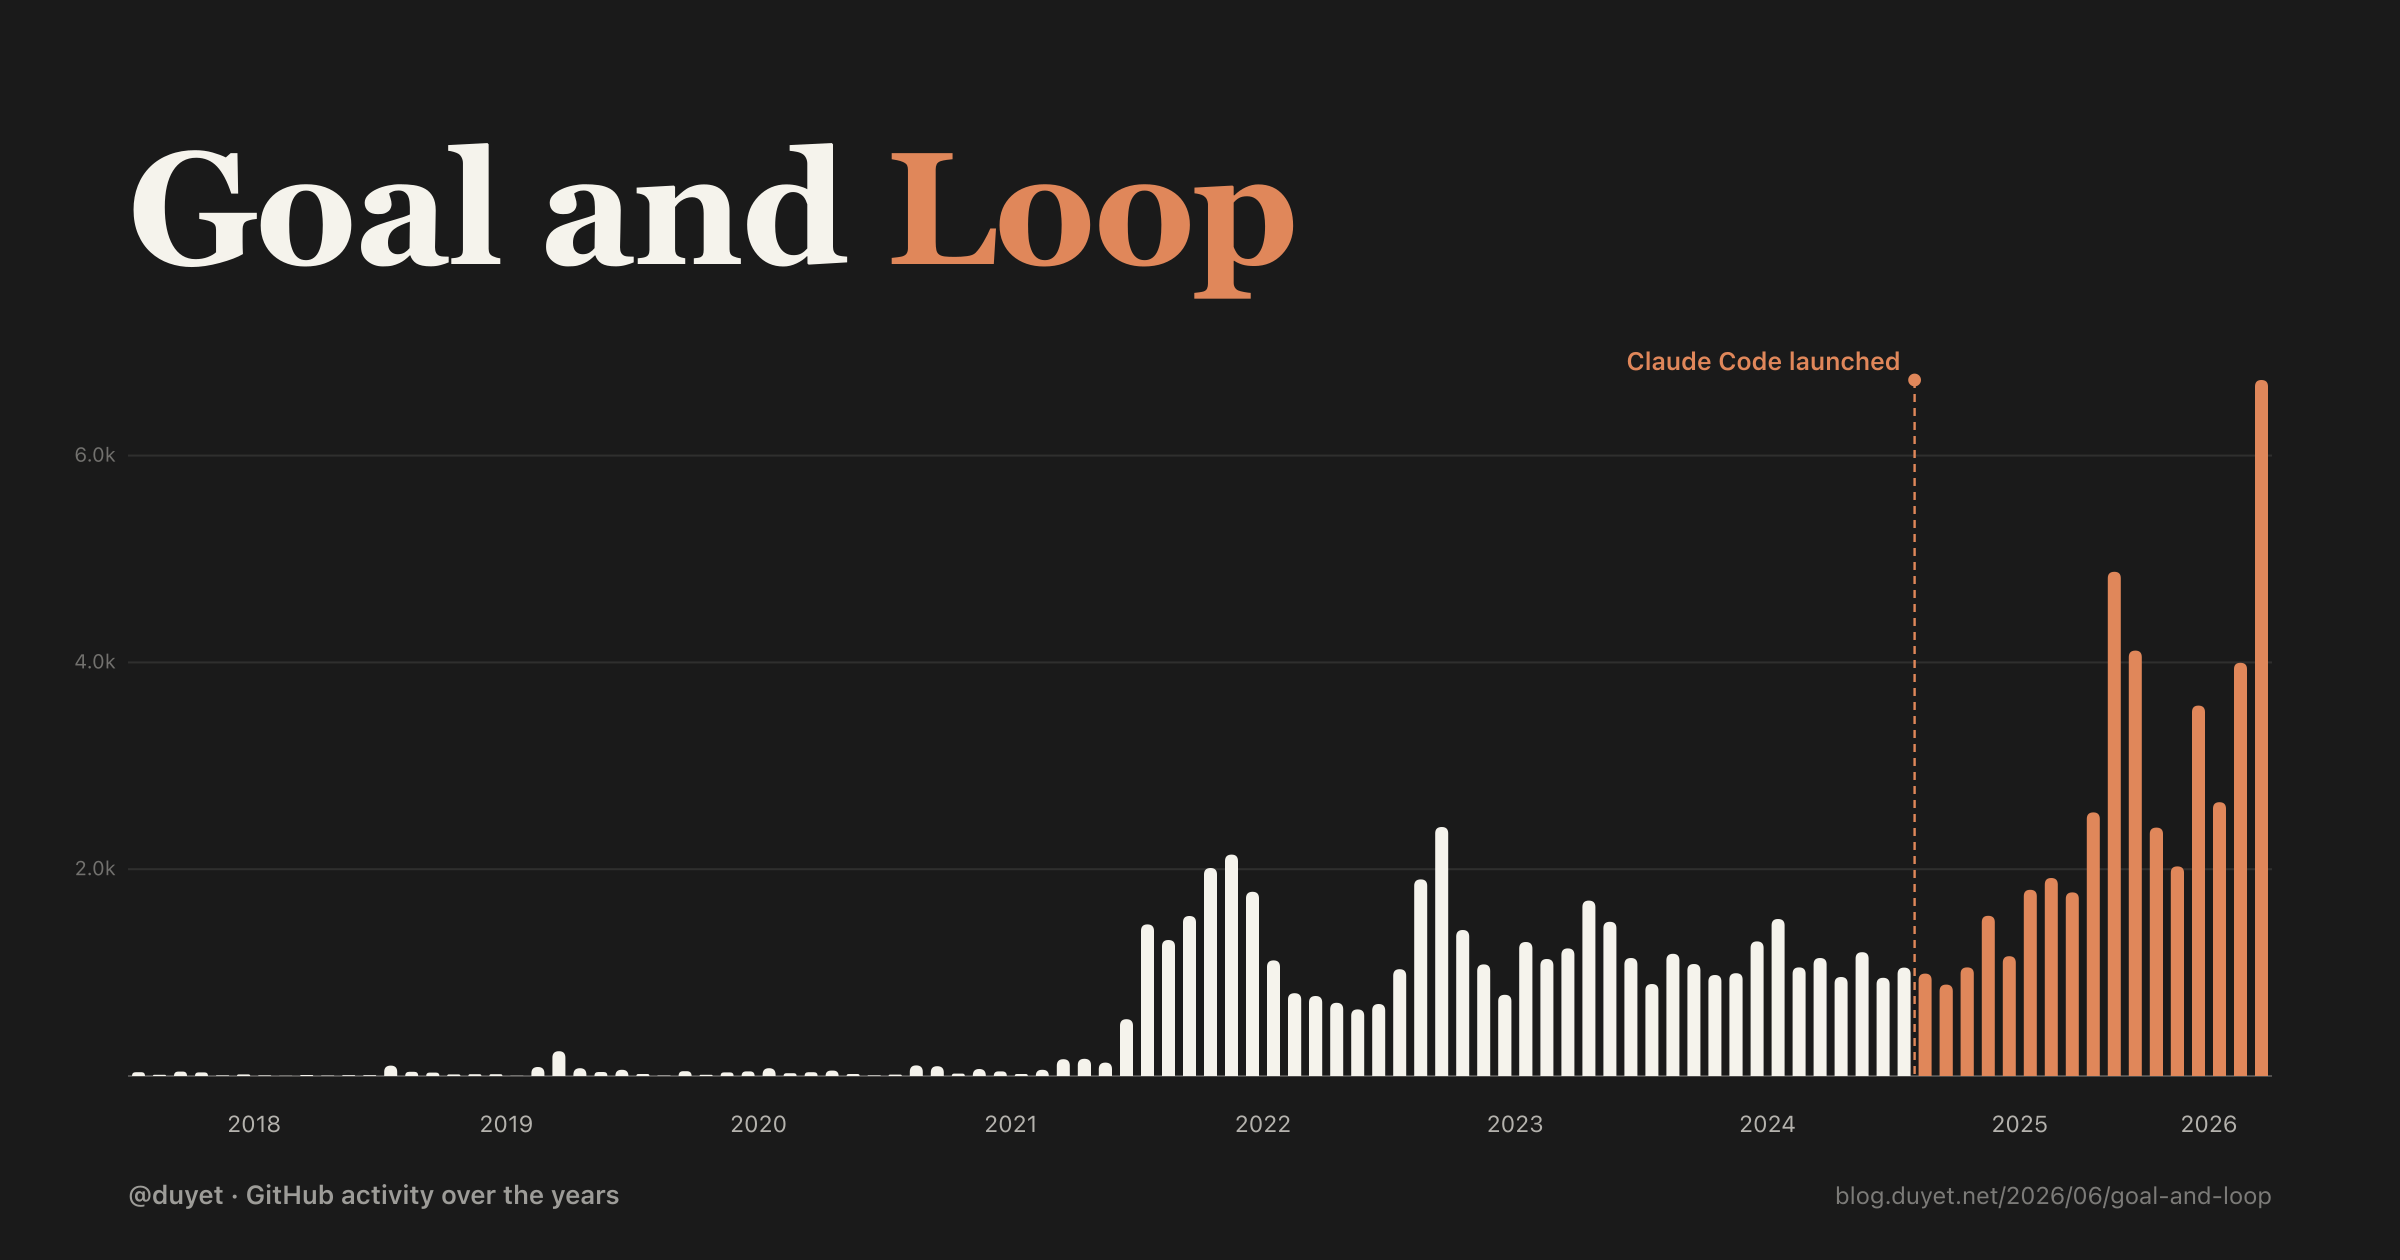
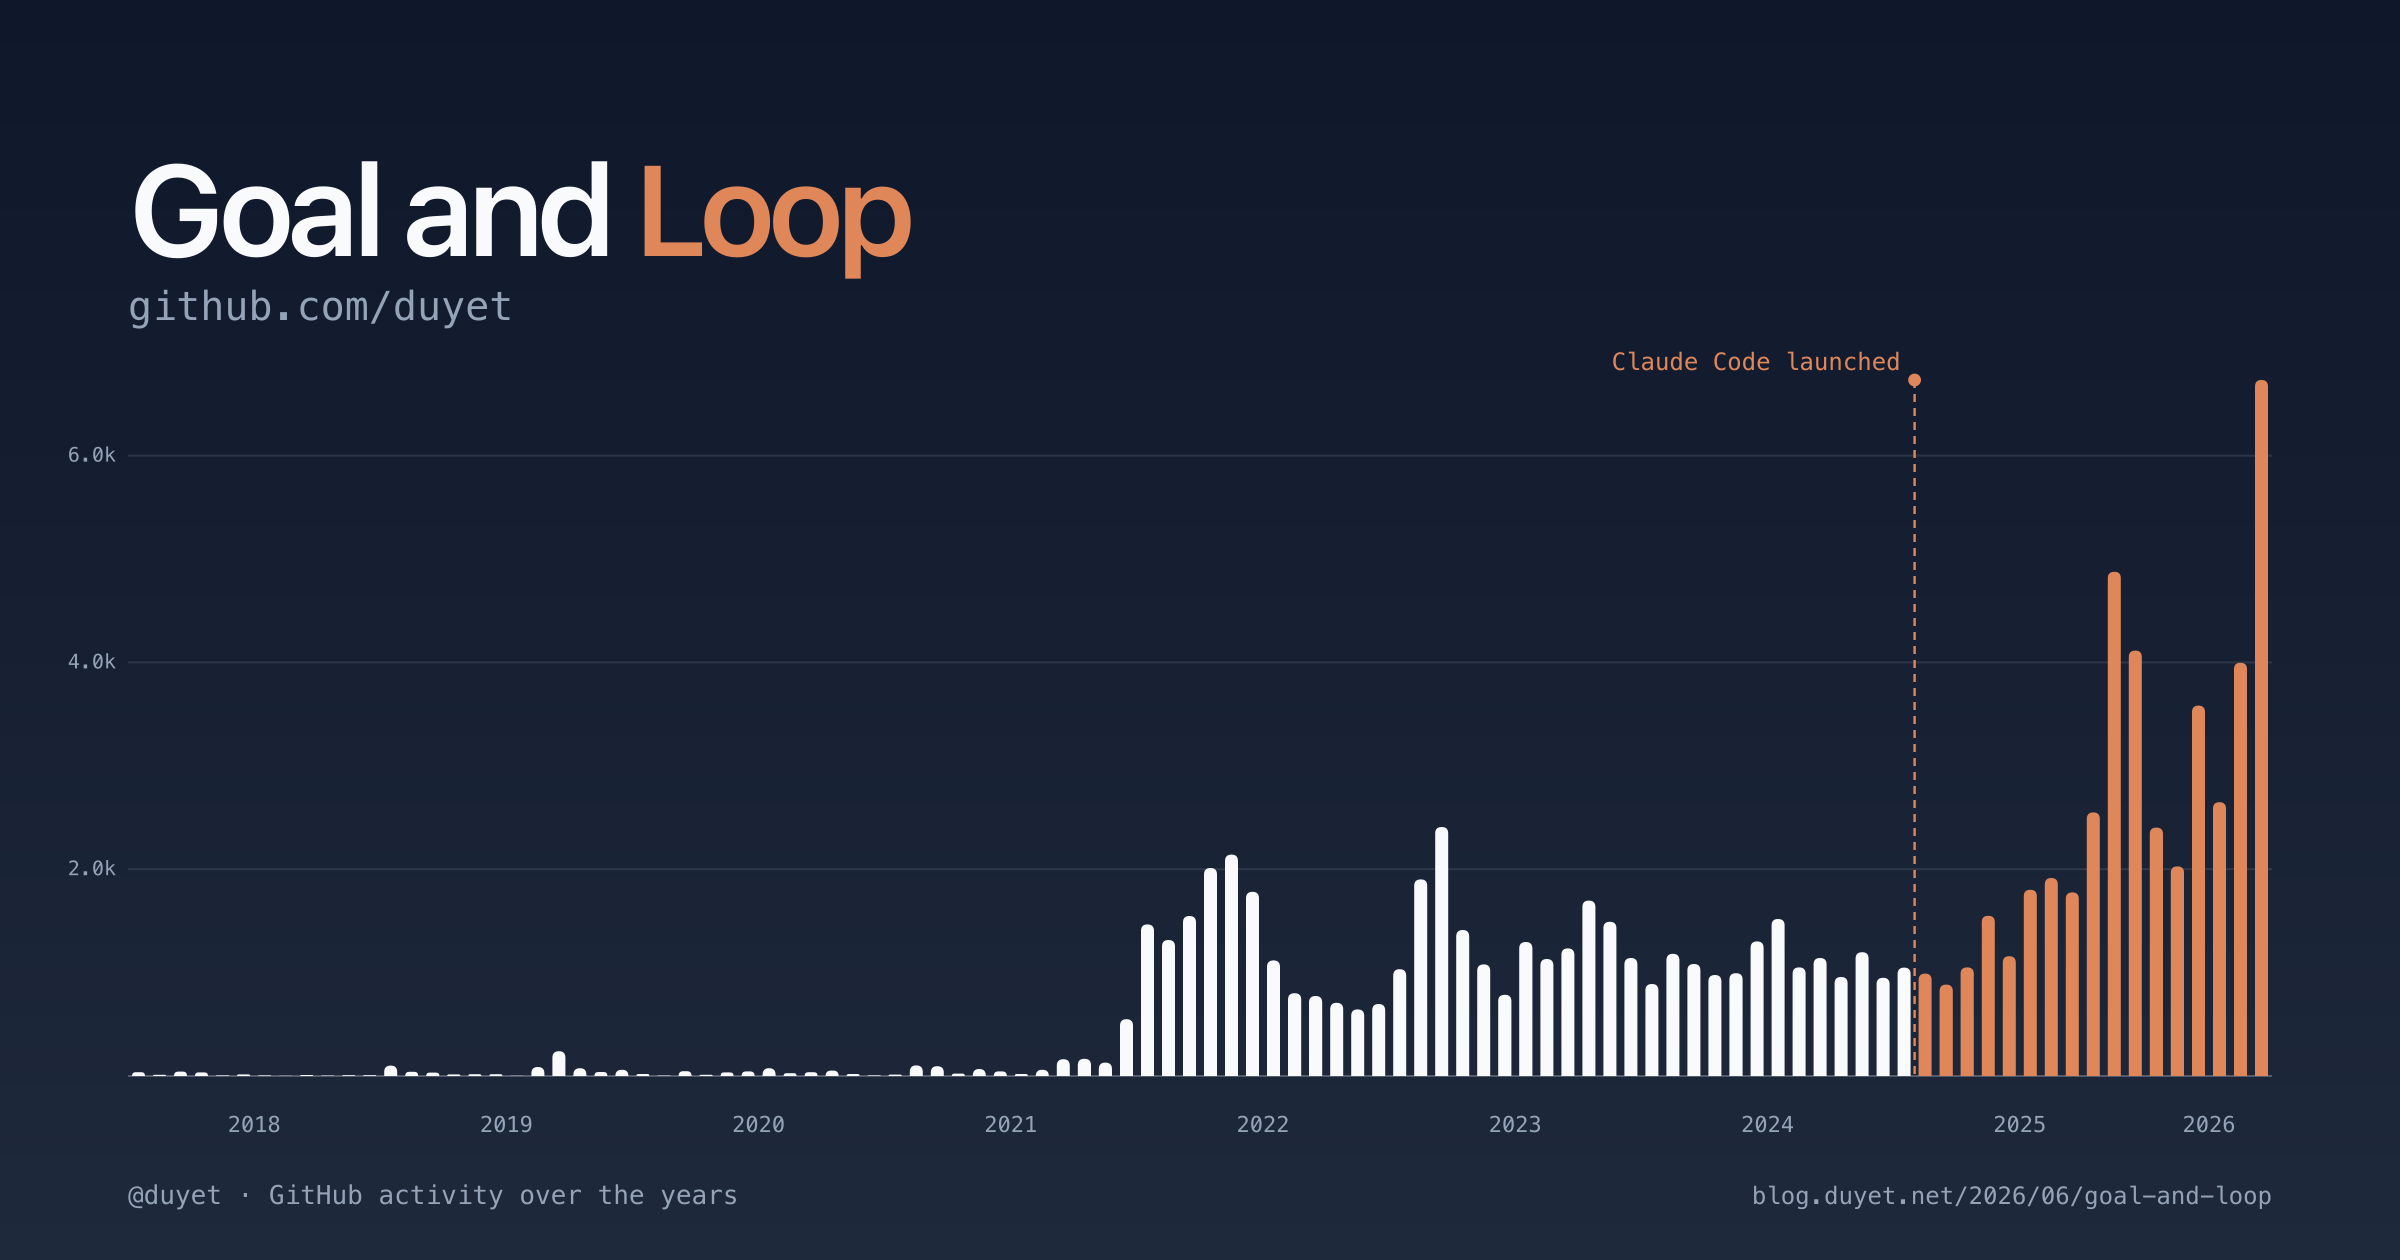
feat(blog): match goal-and-loop card to agent-sandbox hero style
Adopt the agent-sandbox-on-kubernetes hero look: vertical gradient background
(white→lavender light, navy dark), Inter title (weight 600, -1.5 tracking),
and monospace meta (subtitle, axis labels, footer). Replaces the Georgia serif
title and flat background with the shared hero palette (#1a1a1a/#6b7280).

Claude-Session: https://claude.ai/code/session_01WVj3MgcsjbbeHVnKxY94Cj

diff --git a/apps/blog/scripts/github-stats.ts b/apps/blog/scripts/github-stats.ts
@@ -59,26 +59,30 @@ type Cache = {
 
 type Theme = {
   name: string;
-  bg: string;
+  bgStart: string;
+  bgEnd: string;
   ink: string;
+  sub: string;
   accent: string;
-  type: Record<TypeKey, string>;
 };
 
+// Palette + gradient mirror the agent-sandbox-on-kubernetes hero card.
 const THEMES: Theme[] = [
   {
     name: "light",
-    bg: "#f8f8f2",
+    bgStart: "#ffffff",
+    bgEnd: "#eceffa",
     ink: "#1a1a1a",
+    sub: "#6b7280",
     accent: "#d97441",
-    type: { commits: "#1a1a1a", prs: "#d97441", reviews: "#5b7c99", issues: "#b8893a", private: "#cfc9bb" },
   },
   {
     name: "dark",
-    bg: "#1a1a1a",
-    ink: "#f5f3ec",
+    bgStart: "#0f172a",
+    bgEnd: "#1e293b",
+    ink: "#f8fafc",
+    sub: "#94a3b8",
     accent: "#e0875a",
-    type: { commits: "#d8d5cc", prs: "#e0875a", reviews: "#6f97b8", issues: "#c79a4f", private: "#57544c" },
   },
 ];
 
@@ -224,7 +228,6 @@ async function update(): Promise<Cache> {
 // ---- chart generators -----------------------------------------------------
 const esc = (s: string) => s.replace(/&/g, "&amp;").replace(/</g, "&lt;").replace(/>/g, "&gt;");
 const kfmt = (v: number) => (v >= 1000 ? `${(v / 1000).toFixed(1)}k` : String(v));
-const op = (hex: string, o: number) => `fill="${hex}" fill-opacity="${o}"`;
 
 function niceStep(maxPerTick: number): number {
   return [500, 1000, 2000, 2500, 5000, 10000, 20000].find((c) => c >= maxPerTick) ?? 20000;
@@ -237,7 +240,12 @@ function barPath(bx: number, by: number, w: number, h: number, r: number): strin
   return `M${bx.toFixed(1)},${base.toFixed(1)} L${bx.toFixed(1)},${(by + rad).toFixed(1)} Q${bx.toFixed(1)},${by.toFixed(1)} ${(bx + rad).toFixed(1)},${by.toFixed(1)} L${(bx + w - rad).toFixed(1)},${by.toFixed(1)} Q${(bx + w).toFixed(1)},${by.toFixed(1)} ${(bx + w).toFixed(1)},${(by + rad).toFixed(1)} L${(bx + w).toFixed(1)},${base.toFixed(1)} Z`;
 }
 
-// 1200x630 share card: big serif "Goal and Loop" title + rounded monthly bars.
+// Fonts mirror the agent-sandbox-on-kubernetes hero card.
+const SANS = "Inter,system-ui,-apple-system,sans-serif";
+const MONO = "ui-monospace,SFMono-Regular,Menlo,monospace";
+
+// 1200x630 share card styled to match the agent-sandbox hero: gradient
+// background, Inter title, monospace meta. Rounded monthly contribution bars.
 function shareCard(c: Cache, th: Theme): string {
   const d = c.contributions.monthly;
   const W = 1200, H = 630, P = 64;
@@ -248,19 +256,21 @@ function shareCard(c: Cache, th: Theme): string {
   const x = (i: number) => L + slot * i + (slot - bw) / 2;
   const p: string[] = [];
 
-  p.push(`<svg xmlns="http://www.w3.org/2000/svg" viewBox="0 0 ${W} ${H}" font-family="Inter, ui-sans-serif, system-ui, sans-serif" role="img">`);
+  p.push(`<svg xmlns="http://www.w3.org/2000/svg" viewBox="0 0 ${W} ${H}" font-family="${SANS}" role="img">`);
   p.push(`<title>Goal and Loop — @duyet GitHub activity over the years, ${d[0].ym} to ${d[d.length - 1].ym}.</title>`);
-  p.push(`<rect width="${W}" height="${H}" fill="${th.bg}"/>`);
+  p.push(`<defs><linearGradient id="bg" x1="0" y1="0" x2="0" y2="1"><stop offset="0" stop-color="${th.bgStart}"/><stop offset="1" stop-color="${th.bgEnd}"/></linearGradient></defs>`);
+  p.push(`<rect width="${W}" height="${H}" fill="url(#bg)"/>`);
 
-  // title (serif display face for editorial contrast against the sans chrome)
-  p.push(`<text x="${P}" y="132" font-family="Georgia, 'Times New Roman', serif" font-size="80" font-weight="700" letter-spacing="-1" xml:space="preserve"><tspan fill="${th.ink}">Goal and </tspan><tspan fill="${th.accent}">Loop</tspan></text>`);
+  // title — Inter, matching the hero card's weight/tracking
+  p.push(`<text x="${P}" y="128" font-size="64" font-weight="600" letter-spacing="-1.5" xml:space="preserve"><tspan fill="${th.ink}">Goal and </tspan><tspan fill="${th.accent}">Loop</tspan></text>`);
+  p.push(`<text x="${P}" y="160" font-family="${MONO}" font-size="20" fill="${th.sub}">github.com/duyet</text>`);
 
   // gridlines
   const step = niceStep(mx / 4);
   for (let gv = step; gv <= mx; gv += step) {
     const gy = BASE - gv * sc;
     p.push(`<line x1="${L}" y1="${gy.toFixed(1)}" x2="${R}" y2="${gy.toFixed(1)}" stroke="${th.ink}" stroke-opacity="0.10"/>`);
-    p.push(`<text x="${L - 6}" y="${(gy + 3).toFixed(1)}" font-size="10" ${op(th.ink, 0.4)} text-anchor="end">${kfmt(gv)}</text>`);
+    p.push(`<text x="${L - 6}" y="${(gy + 3).toFixed(1)}" font-family="${MONO}" font-size="10" fill="${th.sub}" text-anchor="end">${kfmt(gv)}</text>`);
   }
   p.push(`<line x1="${L}" y1="${BASE}" x2="${R}" y2="${BASE}" stroke="${th.ink}" stroke-opacity="0.25"/>`);
 
@@ -279,7 +289,7 @@ function shareCard(c: Cache, th: Theme): string {
     const mlx = x(li) - 2;
     p.push(`<line x1="${mlx.toFixed(1)}" y1="${TOP}" x2="${mlx.toFixed(1)}" y2="${BASE}" stroke="${th.accent}" stroke-width="1.2" stroke-dasharray="4 3"/>`);
     p.push(`<circle cx="${mlx.toFixed(1)}" cy="${TOP}" r="3.2" fill="${th.accent}"/>`);
-    p.push(`<text x="${(mlx - 7).toFixed(1)}" y="${TOP - 5}" font-size="12.5" fill="${th.accent}" font-weight="600" text-anchor="end">${esc(LAUNCH.label)}</text>`);
+    p.push(`<text x="${(mlx - 7).toFixed(1)}" y="${TOP - 5}" font-family="${MONO}" font-size="12" fill="${th.accent}" text-anchor="end">${esc(LAUNCH.label)}</text>`);
   }
 
   // year labels
@@ -287,12 +297,12 @@ function shareCard(c: Cache, th: Theme): string {
   for (const y of years) {
     const idx = d.map((r, i) => (r.ym.startsWith(y) ? i : -1)).filter((i) => i >= 0);
     const cx = (x(idx[0]) + x(idx[idx.length - 1]) + bw) / 2;
-    p.push(`<text x="${cx.toFixed(1)}" y="566" font-size="11.5" ${op(th.ink, 0.7)} text-anchor="middle">${y}</text>`);
+    p.push(`<text x="${cx.toFixed(1)}" y="566" font-family="${MONO}" font-size="11" fill="${th.sub}" text-anchor="middle">${y}</text>`);
   }
 
-  // footer — @duyet note moved here, with the post URL on the right
-  p.push(`<text x="${P}" y="602" font-size="13" font-weight="600" ${op(th.ink, 0.6)}>@duyet · GitHub activity over the years</text>`);
-  p.push(`<text x="${R}" y="602" font-size="12" ${op(th.ink, 0.45)} text-anchor="end">blog.duyet.net/2026/06/goal-and-loop</text>`);
+  // footer — @duyet note and the post URL, in monospace like the hero subtitle
+  p.push(`<text x="${P}" y="602" font-family="${MONO}" font-size="13" fill="${th.sub}">@duyet · GitHub activity over the years</text>`);
+  p.push(`<text x="${R}" y="602" font-family="${MONO}" font-size="12" fill="${th.sub}" text-anchor="end">blog.duyet.net/2026/06/goal-and-loop</text>`);
   p.push(`</svg>`);
   return p.join("\n");
 }